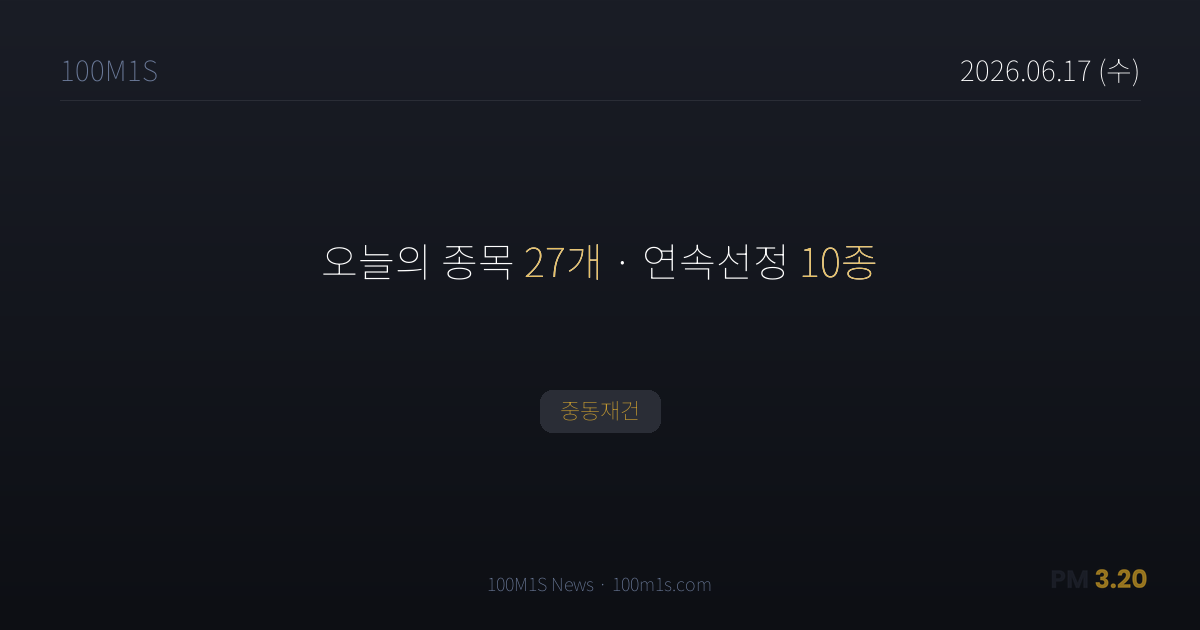
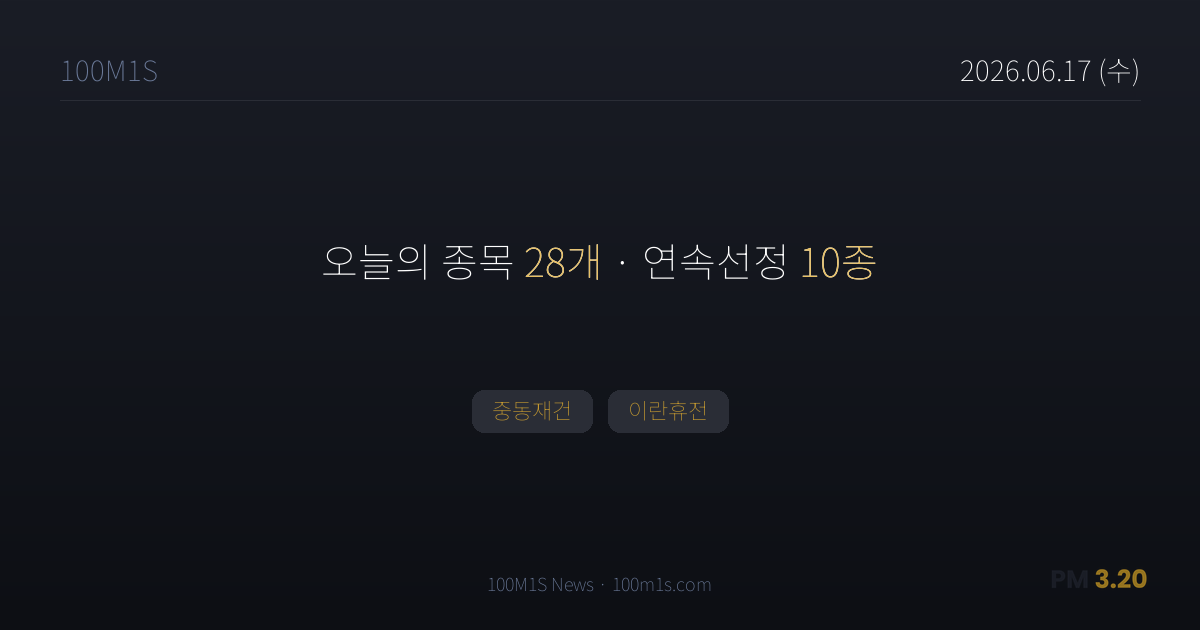
chore(kiwoom): 2026-06-17T11:05 condition search update

Changed region(s): [[0.37, 0.6032, 0.6167, 0.6937], [0.4625, 0.3921, 0.4933, 0.4222]]

diff --git a/pm320/2026-06-17.html b/pm320/2026-06-17.html
@@ -3,8 +3,8 @@
 <head>
 <meta charset="UTF-8">
 <title>6월 17일 (수) 뉴스 — 100M1S</title>
-<meta property="og:title" content="6월 17일 (수) · 종목 27개">
-<meta property="og:description" content="중동재건">
+<meta property="og:title" content="6월 17일 (수) · 종목 28개">
+<meta property="og:description" content="중동재건, 이란휴전">
 <meta property="og:image" content="https://100m1s.com/og/pm320/2026-06-17.png">
 <meta property="og:image:width" content="1200">
 <meta property="og:image:height" content="630">
